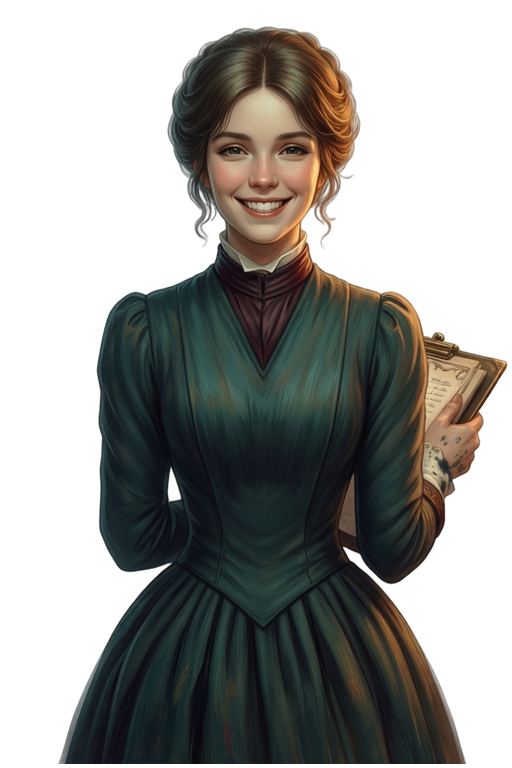
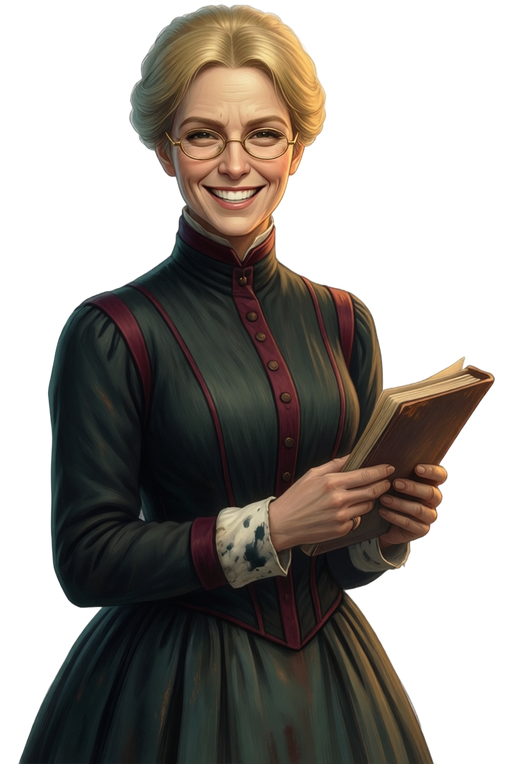
art: distinct cast looks
Prudence (about forty, straw-blonde bun, gold pince-nez, narrow black dress),
Zephyrine (about thirty-five, sun-tanned, short black hair, wide-brimmed hat,
leather duster and trousers) and Rosalind (about twenty-five, copper-red curls,
wide bustled cream and burgundy gown) regenerated so they no longer look alike.
Anjali regenerated as a woman (the story calls her "she"). Looks recorded in
CAST_DESC. No existing panel showed any of them.

diff --git a/tools/art_manifest.py b/tools/art_manifest.py
@@ -41,16 +41,23 @@ CAST_DESC = {
            "in a well-cut dark frock coat",
     "mark": "Mark Bloom, a shy conservatory gardener, in a gardener's apron "
             "with potting soil on his hands",
-    "anjali": "Anjali Bose, an expedition chef and confectioner, in a chef's apron "
-              "with a tea-room tray of sweets",
+    "anjali": "Anjali Bose, an expedition chef and confectioner, a warm round-faced South Asian "
+              "woman of about forty with long black hair in a thick plait over one shoulder, in "
+              "a white chef's jacket and a burgundy apron, carrying a tea-room tray of sweets",
     "hugo": "Hugo Pemberton, a clockwork engineer, in a leather apron with brass "
             "tools and goggles pushed up on his forehead",
-    "prudence": "Prudence Quill, an exacting archivist, in a neat dark dress with "
-                "ink-stained cuffs and a ledger",
-    "zephyrine": "Zephyrine Blackwood, a mysterious cartographer just back from the "
-                 "unmapped edges of the world, in a travel-worn coat with rolled charts",
-    "rosalind": "Rosalind Thorne, a celebrated botanical illustrator and society "
-                "patroness, in an elegant gown with a sketchbook and paintbrush",
+    "prudence": "Prudence Quill, an exacting archivist, a thin severe woman of about forty "
+                "with straw-blonde hair scraped into a tight bun and gold pince-nez, in a "
+                "narrow high-necked black dress with burgundy trim and white ink-stained cuffs, "
+                "holding a ledger",
+    "zephyrine": "Zephyrine Blackwood, a mysterious cartographer back from the unmapped edges of "
+                 "the world, a sun-tanned freckled woman of about thirty-five with short cropped "
+                 "jet-black hair under a battered wide-brimmed explorer's hat, in a long brown "
+                 "leather duster coat, trousers and tall boots, rolled charts under her arm",
+    "rosalind": "Rosalind Thorne, a celebrated botanical illustrator and society patroness, a "
+                "young woman of about twenty-five with abundant copper-red hair in elaborate "
+                "curls, in a wide bustled cream and burgundy silk gown with lace, holding a "
+                "sketchbook and a paintbrush",
     "ambrose": "Ambrose Hall, the vanished founder of Curio Hall, painted as a formal "
                "founder's portrait in period Victorian dress",
 }
